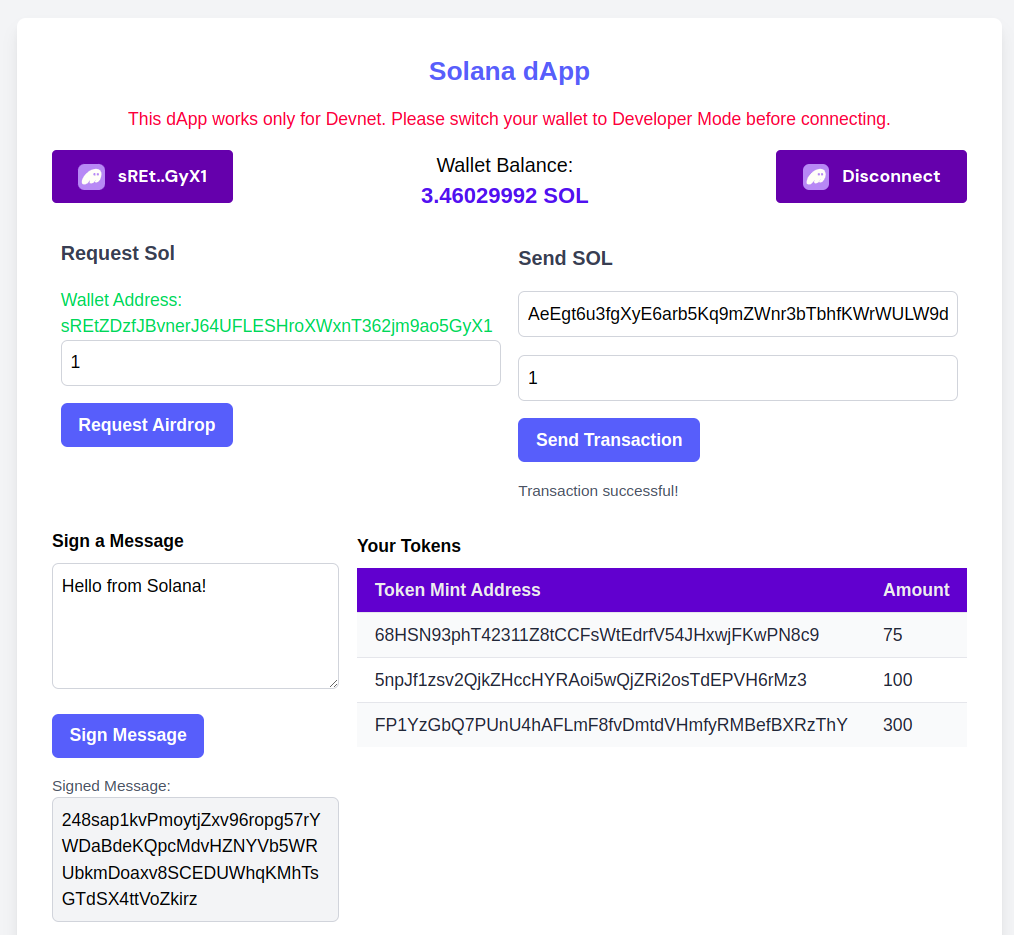
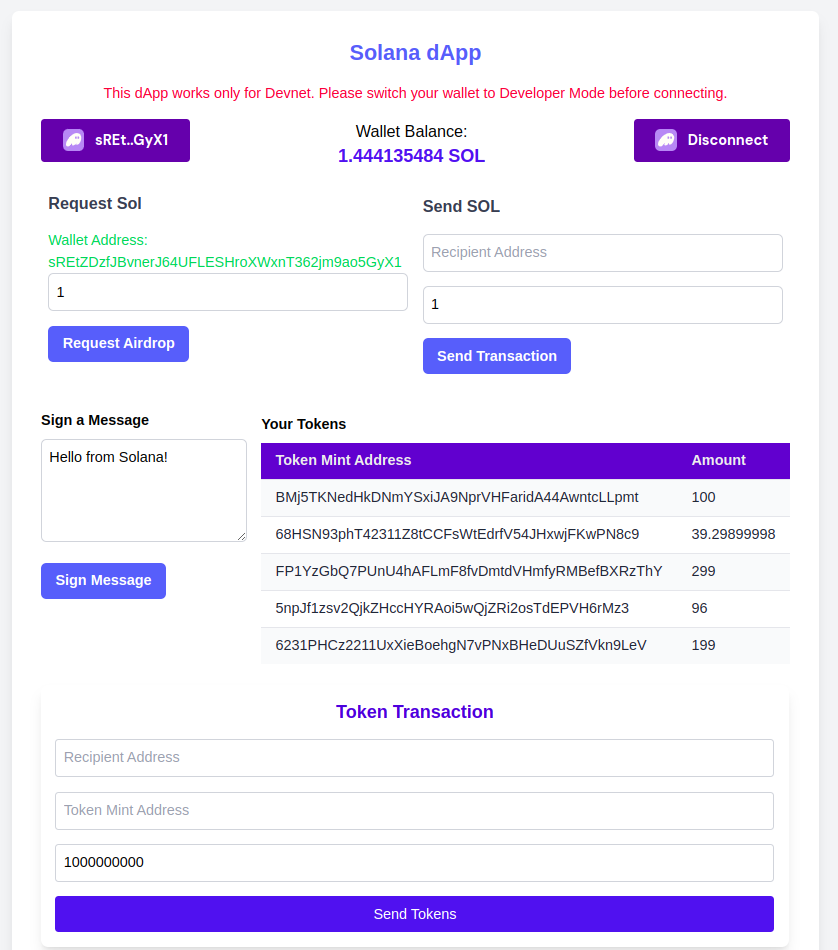
added token transaction

diff --git a/components/TokenTransaction.js b/components/TokenTransaction.js
@@ -1,0 +1,177 @@
+import { useConnection, useWallet } from '@solana/wallet-adapter-react';
+import { Transaction, PublicKey } from '@solana/web3.js';
+import {
+  createTransferInstruction,
+  getOrCreateAssociatedTokenAccount,
+  getAssociatedTokenAddress,
+  getAccount,
+  TokenAccountNotFoundError, 
+  createAssociatedTokenAccountInstruction
+} from '@solana/spl-token';
+import { useState } from 'react';
+
+const isValidBase58Address = (address) => {
+  try {
+    new PublicKey(address);
+    return true;
+  } catch (error) {
+    return false;
+  }
+};
+
+const TokenTransaction = () => {
+  const { connection } = useConnection();
+  const { publicKey, sendTransaction } = useWallet();
+
+  const [recipientAddress, setRecipientAddress] = useState('');
+  const [tokenMintAddress, setTokenMintAddress] = useState('');
+  const [amount, setAmount] = useState('1000000000');
+  const [status, setStatus] = useState('');
+
+  const resetForm = () => {
+    setRecipientAddress('');
+    setTokenMintAddress('');
+    setAmount('');
+  };
+
+  const handleTransfer = async () => {
+    if (!publicKey) {
+      setStatus('Please connect your wallet!');
+      return;
+    }
+  
+    // Validate recipient and token mint addresses
+    if (!isValidBase58Address(recipientAddress)) {
+      setStatus('Invalid recipient address!');
+      return;
+    }
+  
+    if (!isValidBase58Address(tokenMintAddress)) {
+      setStatus('Invalid token mint address!');
+      return;
+    }
+  
+    try {
+      const recipientPublicKey = new PublicKey(recipientAddress);
+      const mintPublicKey = new PublicKey(tokenMintAddress);
+  
+      // Get the associated token account for the sender
+      const senderTokenAccount = await getAssociatedTokenAddress(mintPublicKey, publicKey);
+  
+      // Check if the recipient's associated token account exists
+      const recipientTokenAccount = await getAssociatedTokenAddress(mintPublicKey, recipientPublicKey);
+  
+      // If the recipient's token account does not exist, create it
+      try {
+        await getAccount(connection, recipientTokenAccount);
+      } catch (error) {
+        console.log(error);
+        if (error instanceof TokenAccountNotFoundError) {
+          // Create associated token account
+          const transaction = new Transaction().add(
+            createAssociatedTokenAccountInstruction(
+              publicKey,           // Payer
+              recipientTokenAccount, // New token account for recipient
+              recipientPublicKey,   // Recipient's public key
+              mintPublicKey         // Token mint address
+            )
+          );
+          
+          console.log("Creating token account stage");
+          // Send transaction to create the account
+          const signature = await sendTransaction(transaction, connection);
+          setStatus(`Creating token account... Transaction sent: ${signature}`);
+  
+          // Confirm the transaction using TransactionConfirmationStrategy
+          const strategy = {
+            signature,
+            blockhash: transaction.recentBlockhash,
+            lastValidBlockHeight: (await connection.getLatestBlockhash()).lastValidBlockHeight,
+          };
+
+          const confirmation = await connection.confirmTransaction(strategy, 'confirmed');
+          if (confirmation.value.err) {
+            throw new Error('Token account creation failed');
+          }
+          setStatus('Token account created successfully!');
+        } else {
+          throw error; // If the error is not due to the account not being found
+        }
+      }
+  
+      // Now that we are sure the recipient has an associated token account,
+      // Create the transfer instruction
+      const transaction = new Transaction().add(
+        createTransferInstruction(
+          senderTokenAccount,              // Sender's token account
+          recipientTokenAccount,           // Recipient's token account
+          publicKey,                       // Sender's public key
+          Number(amount)                   // Amount to transfer
+        )
+      );
+  
+      // Send transaction and confirm
+      const signature = await sendTransaction(transaction, connection);
+      setStatus(`Transaction sent: ${signature}`);
+  
+      // Confirm the transaction using TransactionConfirmationStrategy
+      const strategy = {
+        signature,
+        blockhash: transaction.recentBlockhash,
+        lastValidBlockHeight: (await connection.getLatestBlockhash()).lastValidBlockHeight,
+      };
+
+      const confirmation = await connection.confirmTransaction(strategy, 'confirmed');
+      if (confirmation.value.err) {
+        throw new Error('Transaction failed');
+      }
+      setStatus('Transaction confirmed!');
+      resetForm(); // Reset form after successful transaction
+    } catch (error) {
+      console.error('Transfer failed:', error);
+      setStatus(`Error: ${error.message}`);
+      resetForm(); // Reset form after failed transaction
+    }
+  };
+
+  return (
+    <div className="p-4 bg-white rounded-lg shadow-lg text-black">
+      <h2 className="mb-4 text-xl font-bold text-center text-blue-700">Token Transaction</h2>
+
+      <input
+        type="text"
+        placeholder="Recipient Address"
+        value={recipientAddress}
+        onChange={(e) => setRecipientAddress(e.target.value)}
+        className="w-full mb-4 p-2 border border-gray-300 rounded focus:outline-none focus:border-blue-500"
+      />
+
+      <input
+        type="text"
+        placeholder="Token Mint Address"
+        value={tokenMintAddress}
+        onChange={(e) => setTokenMintAddress(e.target.value)}
+        className="w-full mb-4 p-2 border border-gray-300 rounded focus:outline-none focus:border-blue-500"
+      />
+
+      <input
+        type="number"
+        placeholder="Amount"
+        value={amount}
+        onChange={(e) => setAmount(e.target.value)}
+        className="w-full mb-4 p-2 border border-gray-300 rounded focus:outline-none focus:border-blue-500"
+      />
+
+      <button
+        onClick={handleTransfer}
+        className="w-full py-2 px-4 bg-blue-600 text-white rounded hover:bg-blue-700"
+      >
+        Send Tokens
+      </button>
+
+      {status && <p className="mt-4 text-center text-gray-800">{status}</p>}
+    </div>
+  );
+};
+
+export default TokenTransaction;

diff --git a/app/page.js b/app/page.js
@@ -4,24 +4,34 @@ import {
   ConnectionProvider,
   WalletProvider,
 } from '@solana/wallet-adapter-react';
-import {
-  WalletModalProvider,
-  WalletDisconnectButton,
-  WalletMultiButton,
-} from '@solana/wallet-adapter-react-ui';
+import { WalletModalProvider } from '@solana/wallet-adapter-react-ui';
 import { PhantomWalletAdapter } from '@solana/wallet-adapter-wallets';
 import { useMemo } from 'react';
 import { clusterApiUrl } from '@solana/web3.js';
 import '@solana/wallet-adapter-react-ui/styles.css';
+
+//it s just to avoid hydration error
+import dynamic from 'next/dynamic';
+const WalletMultiButtonDynamic = dynamic(
+  () => import('@solana/wallet-adapter-react-ui').then((mod) => mod.WalletMultiButton),
+  { ssr: false }
+);
+const WalletDisconnectButtonDynamic = dynamic(
+  () => import('@solana/wallet-adapter-react-ui').then((mod) => mod.WalletDisconnectButton),
+  { ssr: false }
+);
+
 import Airdrop from '@/components/Airdrop';
 import Balance from '@/components/Balance';
 import Transaction from '@/components/Transaction';
 import SignMessage from '@/components/SignMessage';
 import AllTokens from '@/components/AllTokens';
+import TokenTransaction from '@/components/TokenTransaction';
 
 function App() {
   const network = WalletAdapterNetwork.Devnet;
   const endpoint = useMemo(() => clusterApiUrl(network), [network]);
+  //const endpoint="https://solana-devnet.g.alchemy.com/v2/D2scTsXfiMJgmjkqvigvkwNCwc565itt";
   const wallets = useMemo(() => [new PhantomWalletAdapter()], []);
 
   return (
@@ -32,19 +42,16 @@ function App() {
             <div className="w-full max-w-4xl p-8 bg-white rounded-lg shadow-lg">
               <h1 className="mb-4 text-2xl font-bold text-center text-blue-500">Solana dApp</h1>
               
-              {/* Devnet Warning Message */}
               <p className="mb-4 text-red-500 text-center">
                 This dApp works only for Devnet. Please switch your wallet to Developer Mode before connecting.
               </p>
               
-              {/* Row 1: Connect, Balance, Disconnect */}
               <div className="flex justify-between mb-6 space-x-4">
-                <WalletMultiButton className="btn-primary" />
+                <WalletMultiButtonDynamic className="btn-primary" />
                 <Balance />
-                <WalletDisconnectButton className="btn-secondary" />
+                <WalletDisconnectButtonDynamic  className="btn-secondary" />
               </div>
               
-              {/* Row 2: Airdrop and Transaction - Equal Space */}
               <div className="flex justify-between mb-6">
                 <div className="flex-1 mx-2">
                   <Airdrop />
@@ -54,10 +61,12 @@ function App() {
                 </div>
               </div>
               
-              {/* Row 3: Sign Message, Your Tokens */}
               <div className="flex justify-between mb-6 space-x-4">
                 <SignMessage />
-                <AllTokens />
+                <AllTokens/>
+              </div>
+              <div className="flex justify-between mb-6 space-x-4">
+                <TokenTransaction/>
               </div>
             </div>
           </div>

diff --git a/components/AllTokens.js b/components/AllTokens.js
@@ -7,9 +7,9 @@ export default function AllTokens() {
   const { publicKey } = useWallet();
   const [tokens, setTokens] = useState([]);
   const [loading, setLoading] = useState(true);
-  const connection = new Connection('https://api.devnet.solana.com');
+  const connection = new Connection('https://solana-devnet.g.alchemy.com/v2/D2scTsXfiMJgmjkqvigvkwNCwc565itt');
 
-  const fetchTokens = useCallback(async () => {
+  const fetchTokens =async () => {
     if (!publicKey) return;
 
     try {
@@ -32,17 +32,16 @@ export default function AllTokens() {
       );
 
       setTokens(tokensList);
-      console.log(tokensList);
     } catch (error) {
       console.error('Error fetching tokens:', error);
     } finally {
       setLoading(false);
     }
-  }, [publicKey, connection]); // Add dependencies to useCallback
+  } 
 
   useEffect(() => {
-    fetchTokens(); // Call the fetchTokens function
-  }, [fetchTokens]); // Add fetchTokens as a dependency to useEffect
+    fetchTokens(); 
+  }, [fetchTokens]); 
 
   if (loading) {
     return <p className="text-gray-600">Loading tokens...</p>;
